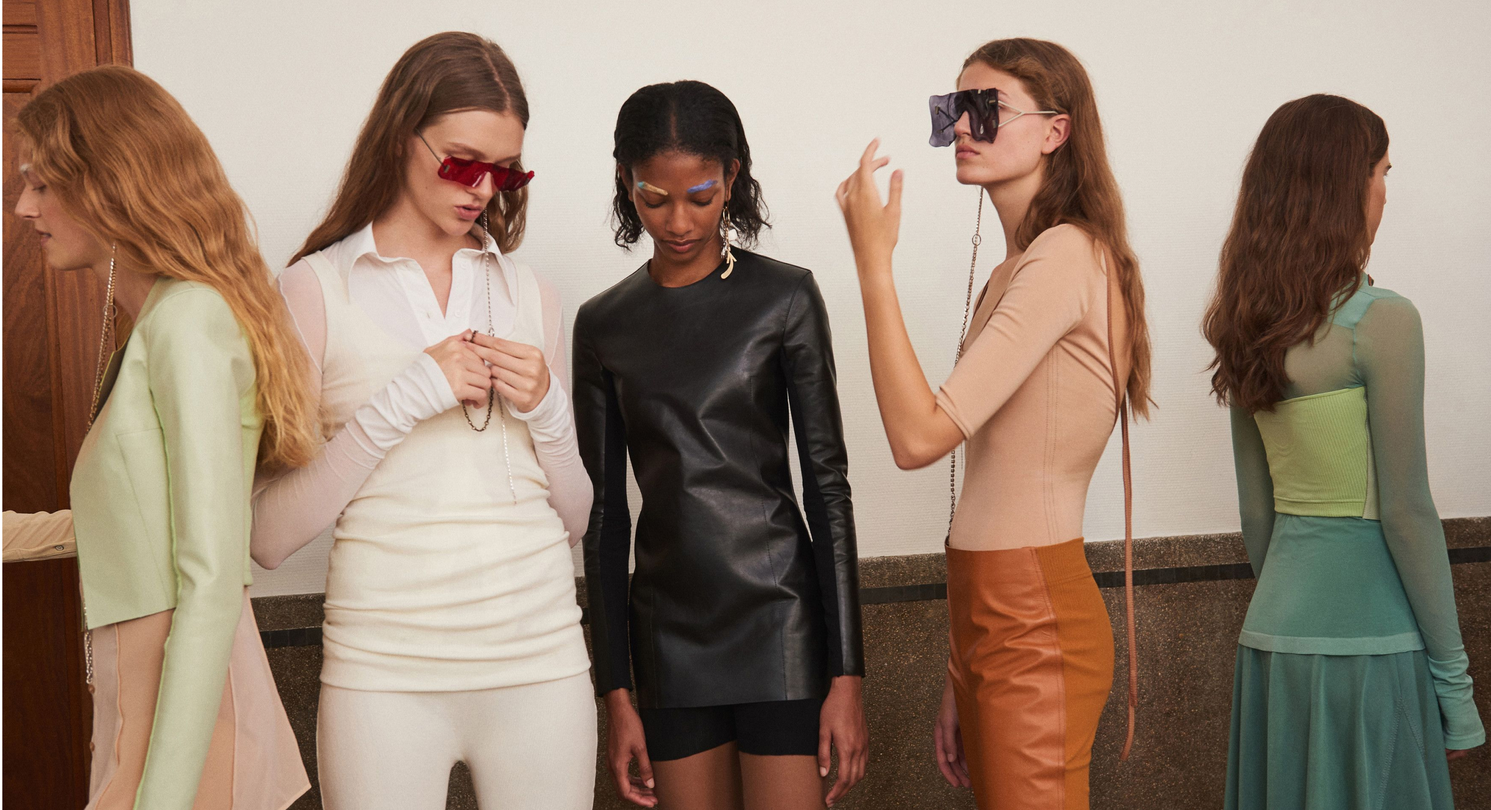
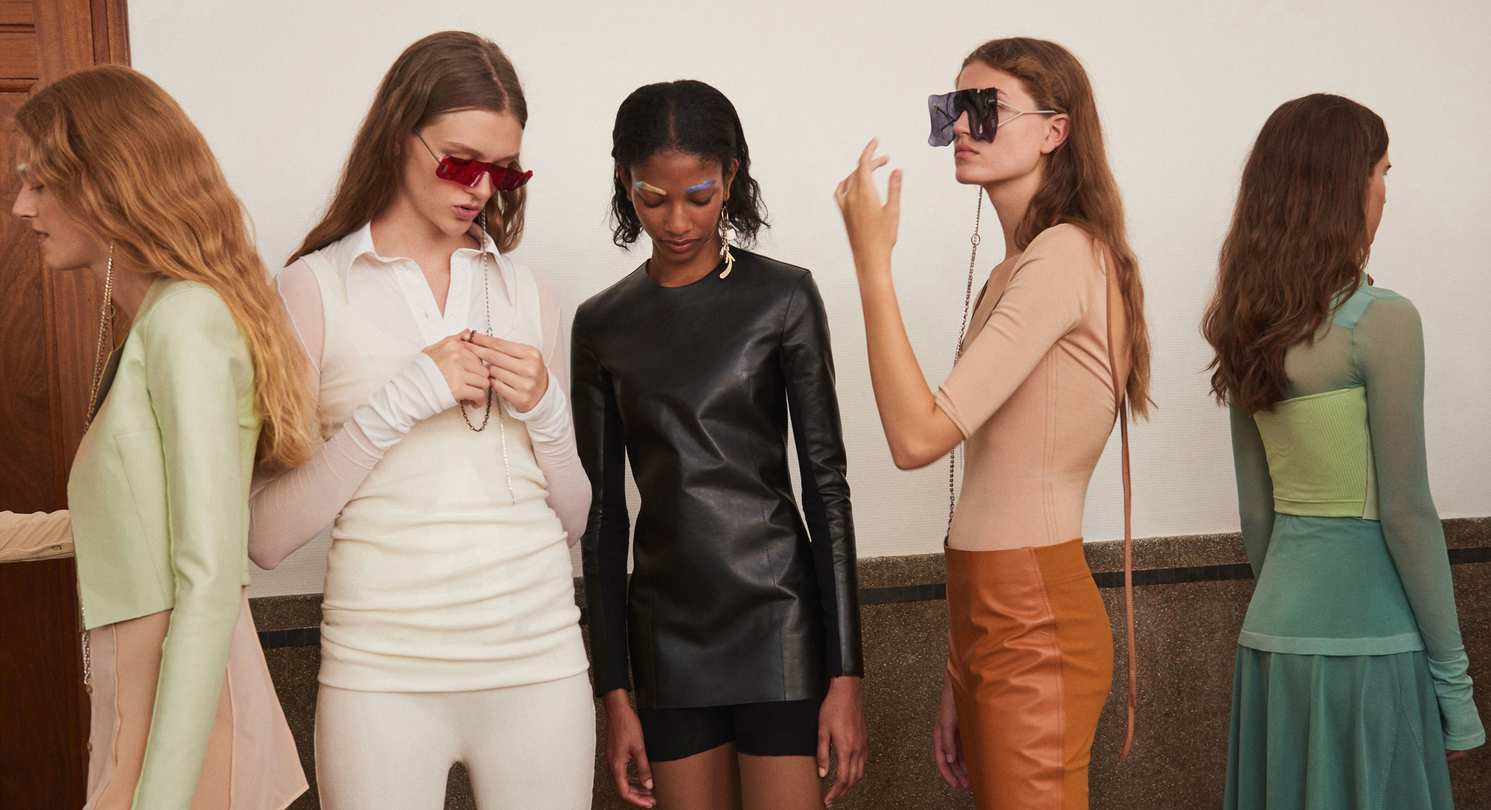
fix(hero): reorder hero images

diff --git a/src/modules/Jumbotron/Jumbotron.vue b/src/modules/Jumbotron/Jumbotron.vue
@@ -13,7 +13,7 @@
       <div :class="$style.cover">
         <div :class="$style.wrapper">
           <img
-            v-for="image in project.hero"
+            v-for="image in [...project.hero].reverse()"
             :key="`hero-${image}`"
             :src="image"
             :alt="project.name"
@@ -46,9 +46,9 @@ export default {
     ComponentIndicator,
   },
   computed: {
-    ...mapGetters('site', ['heroes']),
+    ...mapGetters('site', ['projects']),
     project() {
-      return this.heroes.find(hero => hero.slug === this.$route.params.slug)
+      return this.projects.find(project => project.slug === this.$route.params.slug)
     },
   },
 }
@@ -62,7 +62,7 @@ export default {
 .isFull {
   display: grid;
   grid-template-rows: auto 1fr;
-  height: 100vh;
+  min-height: 100vh;
   color: $white;
   background-color: $dark;
 
@@ -89,7 +89,7 @@ export default {
 }
 
 .image {
-  width: 380px;
+  width: 320px;
   user-select: none;
   $dx: 60px;
   $dy: 25px;
@@ -111,16 +111,14 @@ export default {
   }
 
   &:nth-of-type(1) {
-    z-index: 2;
-    transform: translateY(-$dy);
+    transform: translate(-$dx * 2, $dy);
 
     @include bp(sm) {
-      transform: translateY(-$smdy);
+      transform: translate(-$smdx * 2, $smdy);
     }
   }
 
   &:nth-of-type(2) {
-    z-index: 1;
     transform: translateX(-$dx);
 
     @include bp(sm) {
@@ -129,11 +127,10 @@ export default {
   }
 
   &:nth-of-type(3) {
-    z-index: 0;
-    transform: translate(-$dx * 2, $dy);
+    transform: translateY(-$dy);
 
     @include bp(sm) {
-      transform: translate(-$smdx * 2, $smdy);
+      transform: translateY(-$smdy);
     }
   }
 }

diff --git a/src/store/site/getters.js b/src/store/site/getters.js
@@ -12,19 +12,6 @@ export default {
       cover,
     }))
   },
-  heroes(_, __, ___, rootGetters) {
-    return rootGetters['site/projects'].map(({
-      name,
-      slug,
-      subject,
-      hero,
-    }) => ({
-      name,
-      slug,
-      subject,
-      hero,
-    }))
-  },
   projects(state) {
     return state.projects.sort((a, b) => a.position - b.position)
   },

diff --git a/src/App.vue b/src/App.vue
@@ -35,6 +35,6 @@ export default {
   display: grid;
   grid-template-rows: auto 1fr;
   width: 100%;
-  height: 100%;
+  min-height: 100%;
 }
 </style>
